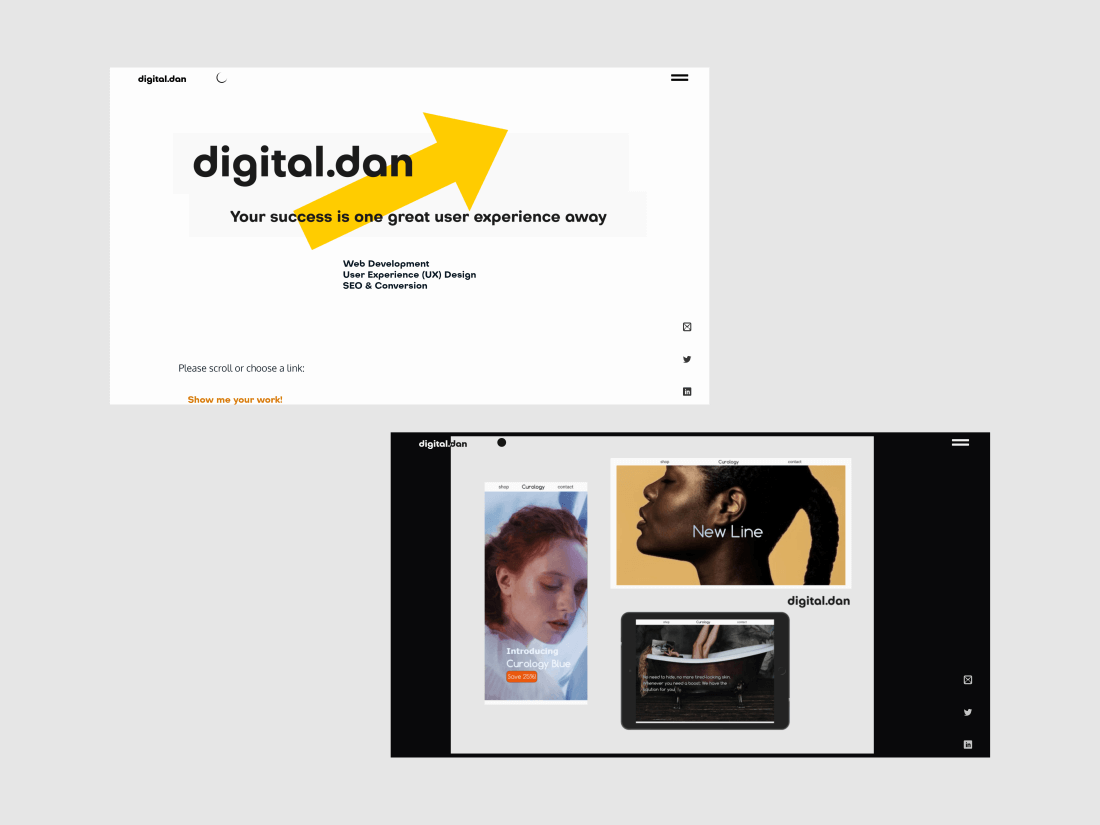
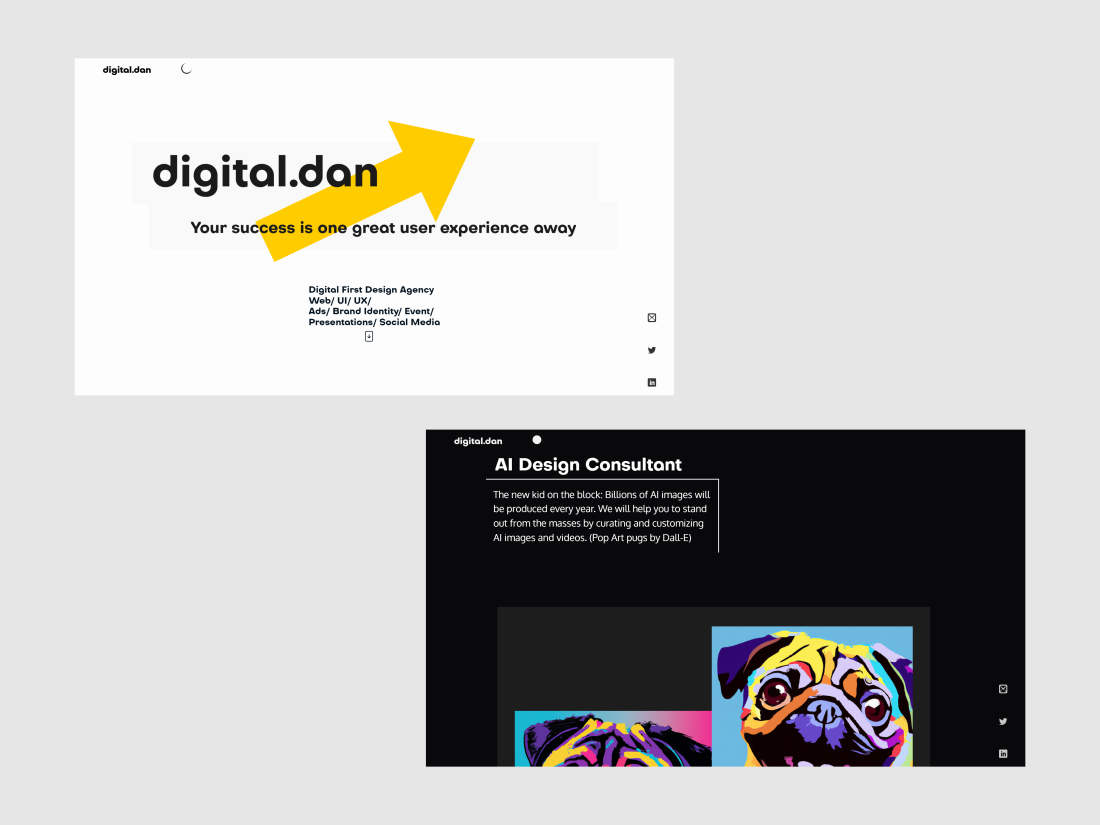
services overhaul

diff --git a/components/Services.js b/components/Services.js
@@ -10,65 +10,54 @@ const Services = () => {
                         <li>About Me</li>
                         <Borders><div className="paragraph mr-[2rem]">
                             <li>Daniel Hubschmann (Germany).</li>
-                            <li>Freelance web developer with focus on frontend, UX, SEO and conversion rates.
+                            <li>Designer & Art Director with over 20 years experience.
                                 <br />
                                 <br />
-
-                                I worked as a web designer for two decades before changing careers to development: The best of both worlds for your projects.<br /></li>
+                                Let me help you raise your brand&apos;s value, win more costumers and meet other day to day business challenges!<br /></li>
                         </div> </Borders></ul>
                 </section>
-
                 <section className="px-2 mb-[2rem]">
                     <ul className="herolinks p-[5vh] md:p-[5vh] landscape:w-[45vw]">
-                        <li>Prizes & Rates</li>
+                        <li>Prizing</li>
                         <Borders><div className="paragraph mr-[1rem]">
                             <ul>
-                                <li> Options: <br />Freelance rate 500 Euro/ day with discounts for longer contracts.
+                                <li> Get your personal senior designer and design consultant for a great prize:
+                                    <br />
+                                    <br />
+                                    Retainer, 1.499,00 Euro/ 20 hours per month.
+                                </li>
+                                <li>
+                                    Monthly contract, pause or cancel anytime.
                                 </li>
                                 <br />
-                                <li>Project based,
-                                    simple landing pages and portfolios already starting at 1.200 Euro including all services.</li>
+                                <li>
+                                    Add 10 extra hours for 499,00.
+                                </li>
+                                <br />
                             </ul>
                         </div>
-
                         </Borders></ul>
                 </section>
                 <section className="flex md:justify-end px-2">
                     <ul className="herolinks list-disc md:pt-[10vh] p-[2rem]
                       landscape:w-[45vw]">
-
-                        My Services
+                        Retainer Services
                         <Borders><div className="paragraph">
-
-                            <li>Apps, landing pages, websites with languages like JavaScript and frameworks like React</li>
-                            <li>E-commerce development, custom store fronts</li>
-                            <li> Custom CMS</li>
-                            <li> Mobile optimization</li>
-                            <li>User consent rules </li>
-                            <li>UX/UI: design or recreating provided designs on point, easy navigation, fast loading times, engaging animations, high accessibility</li>
-                            <li>Helping you navigate through the rapid, ever changing SEO field</li>
-                            <li> Turning visitors into customers through great UX</li>
+                            Consultation and/ or execution
+                            <li>UX/ UI design - apps, websites & landing pages</li>
+                            <li>Latest user consent & accessibility rules</li>
+                            <li>Images for ad & marketing campaigns</li>
+                            <li>Social media content & marketing assets</li>
+                            <li>Visual branding</li>
+                            <li>Visual design for events & presentations</li>
+                            <li>Curating and customizing AI images</li>
                         </div>
-
                         </Borders>
-
                         <br />
-
-                        <br />
-                        <br />
-                        <br /></ul>
-
+                    </ul>
                 </section>
-
                 <section className="herolinks grid place-content-center pb-[5rem]">
-                    How can I help you succeed? <br />
                     Let&apos;s talk about your project:</section>
-
-
-
-
-
-
             </main >
         </>
     )

diff --git a/components/Work.js b/components/Work.js
@@ -139,7 +139,21 @@ const Work = () => {
                             /></Casestudyimage>
                     </div>
                 </section>
-                {/* <section className="lg:w-[80vw] h-auto flex flex-col justify-start gap-12 mx-auto mt-[15vh] mb-[15vh]">
+                <section className="lg:w-[80vw] h-auto flex flex-col justify-start gap-12 mx-auto mt-[15vh] mb-[15vh]">
+
+
+                    <div className="lg:w-[50%]">
+                        <h1 className="header">Accessibility & Consent</h1>
+                        <div className="w-fit">
+                            <Borders>
+                                <motion.p whileInView={paragraphAnimate} className="paragraph lg:w-[40ch] pt-3 pr-8 ">
+                                    Avoid cease and desist messages or fines: <br />
+                                    Our UX/ UI designs are following the latest rules and regulations. </motion.p></Borders>
+                        </div><br />
+                    </div>
+
+                </section>
+                <section className="lg:w-[80vw] h-auto flex flex-col justify-start gap-12 mx-auto mt-[15vh] mb-[15vh]">
 
                     <div className="lg:w-[50%]">
                         <h1 className="header">Online Marketing</h1>
@@ -157,7 +171,7 @@ const Work = () => {
 
                             /></Casestudyimage>
                     </div>
-                </section> */}
+                </section>
                 <section id="Selfbrand"
                     className="lg:w-[80vw] h-auto flex flex-col justify-start gap-12 mx-auto mt-[15vh] mb-[15vh]">
 
@@ -181,6 +195,27 @@ const Work = () => {
                         <Casestudyimage>
                             <img src='/selfbrand1.png'
                                 alt="Visual brand design for digital.dan agency"
+                            /></Casestudyimage>
+                    </div>
+                </section>
+                <section id="Selfbrand"
+                    className="lg:w-[80vw] h-auto flex flex-col justify-start gap-12 mx-auto mt-[15vh] mb-[15vh]">
+
+                    <div className="lg:w-[50%]">
+                        <h1 className="header">AI Design Consultant</h1>
+                        <div className="w-fit">
+                            <Borders>
+                                <motion.p whileInView={paragraphAnimate} className="paragraph lg:w-[40ch] pt-3 pr-8">
+                                    The new kid on the block: Billions of AI images will be produced every year. We will help you to stand out
+                                    from the masses by curating and customizing AI images and videos. (Pop Art pugs by Dall-E)
+                                    <br /></motion.p></Borders>
+                        </div><br />
+
+                    </div>
+                    <div className="lg:w-[95%]">
+                        <Casestudyimage>
+                            <img src='/bonus pugs.png'
+                                alt="Picture of two pugs in pop art style made by AI Dall-E"
                             /></Casestudyimage>
                     </div>
                 </section>

diff --git a/components/Hero.js b/components/Hero.js
@@ -1,5 +1,6 @@
 import { motion } from 'framer-motion'
 import Heroimage from '@components/Heroimage';
+import ScrollArrow from './ScrollArrow';
 
 const Hero = () => {
     const wedesignAnimate = {
@@ -18,23 +19,20 @@ const Hero = () => {
         <main className="h-screen flex flex-col
         justify-center items-center">
             <motion.section className="md:px-[2rem]">
-                <section className="h-auto p-4 flex portrait:flex-col">
-                    <motion.h1 animate={wedesignAnimate} className="
-                        flex flex-col">
+                <section>
+                    <motion.h1 animate={wedesignAnimate} className="flex flex-col">
                         <Heroimage>
                             <img src="./heroimg.png"
                                 alt="Digital.dan Digital Design Agency, UX/ UI, Web Design, Adverstisement, Social Media Content,  -  
                             Your success is one great user experience away"
                             >
                             </img>
-
                         </Heroimage>
                         <motion.div animate={wedesignAnimate2} className="font-bold herosubtext
-                        mt-[0.5rem] mx-auto">
+                        mt-[2.5rem] mx-auto">
                             Digital First Design Agency<br />
                             Web/ UI/ UX/ <br />Ads/ Brand Identity/ Event/ <br />Presentations/ Social Media<br />
-
-
+                            <ScrollArrow />
                         </motion.div>
                     </motion.h1>
                 </section>

diff --git a/components/About.js b/components/About.js
@@ -15,7 +15,6 @@ const About = () => {
                 className="h-auto flex flex-col justify-center 
                 py-[10vh] lg:py-[25vh]
                 ">
-
                 <section className="paragraph flex justify-center items-center md:py-[2.5rem]
                 ">
                     <div>
@@ -26,10 +25,8 @@ const About = () => {
                                     <br />
                                 </div>
                                 <div className='grid place-content-start'>
-                                    <motion.p whileInView={paragraphAnimate} className="p-5">
-
-
-                                        Please scroll or choose a link:
+                                    <motion.p whileInView={paragraphAnimate} className="p-5 header">
+                                        Scroll or choose a link:
                                     </motion.p>
                                     <ArrowLinks>
                                         <Link href="#Work"
@@ -60,16 +57,10 @@ const About = () => {
                                     </ArrowLinks>
                                 </div>
                                 <br />
-
                             </section>
-
                         </div>
                     </div>
                 </section>
-
-
-
-
             </main >
         </>
     )

diff --git a/pages/Case2/DDbranding.js b/pages/Case2/DDbranding.js
@@ -46,10 +46,10 @@ const DDbranding = () => {
                         <h1 className="font-[octarine] header">
                             Social Media Assets
                         </h1>
-                        <h2 className="paragraph py-[10vh]">AI DALL-E images for social media branding.</h2>
+                        <h2 className="paragraph py-[10vh]">Social media branding with the help of AI.</h2>
                     </section>
                     <Casestudyimage>
-                        <img src='li.png'
+                        <img src='li pug1.png'
                             alt="Image of AI generated images using circles"
                             className='border-[2px] border-zinc-900'
                         /></Casestudyimage>

diff --git a/components/Navbar.js b/components/Navbar.js
@@ -17,7 +17,7 @@ const Navbar = () => {
     return (
         <>
             <div className="navbarcontainer z-10">
-                <nav className="flex items-center w-fit mx-auto space-x-[5vw] top-0 mt-[1rem] md:mt-[0.25rem] lg:ml-[1rem]">
+                <nav className="flex items-center w-fit mx-auto space-x-[5vw] top-0 mt-[0.25rem] lg:ml-[1rem]">
                     <Link href="/">
                         <span className="font-[octarine] cursor-pointer mix-blend-difference
                 logo"> digital.dan</span>

diff --git a/pages/index.js b/pages/index.js
@@ -11,6 +11,13 @@ export default function Home() {
     <>
       <div>
         <Hero />
+        <About />
+        <ParallaxSection>work</ParallaxSection>
+        <Work />
+        <ParallaxSection>service</ParallaxSection>
+        <Services />
+        <ParallaxSection>contact</ParallaxSection>
+        <Contact />
       </div>
     </>
   );

diff --git a/components/ScrollArrow.js b/components/ScrollArrow.js
@@ -11,8 +11,8 @@ const ScrollArrow = () => {
         }
     }
     return (
-        <section className="relative">
-            <motion.div className="absolute md:right-1/2"
+        <section>
+            <motion.div
                 animate={arrowAnimate}
             >
                 <span className='text-2xl'>

diff --git a/pages/_app.js b/pages/_app.js
@@ -44,6 +44,7 @@ function Application({ Component, pageProps }) {
 
 
       <Navbar />
+      <Menu />
       <Contacticons />
       <AnimatePresence mode='wait'
         onExitComplete={() => window.scrollTo(0, 0)}>
